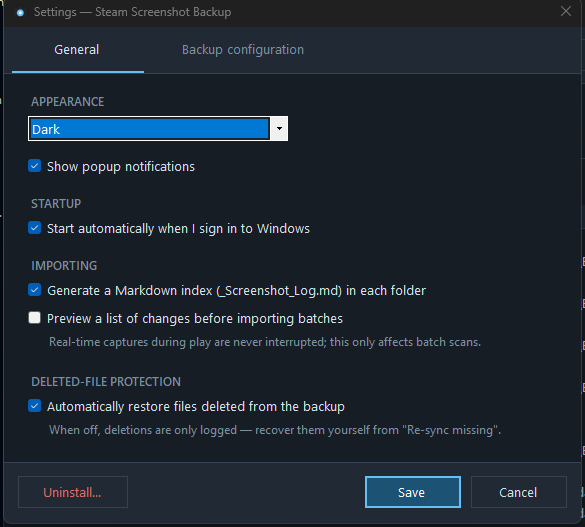
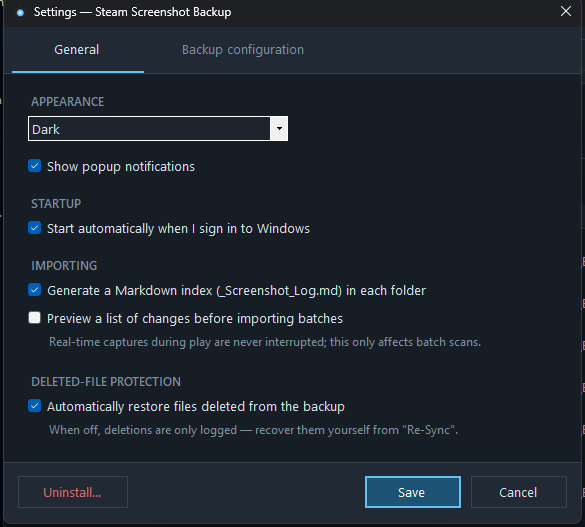
Fix stale label text, settings focus, publisher metadata, screenshot colors
- SettingsWindow: auto-restore hint referenced the old "Re-sync missing"
  label; updated to "Re-Sync". Also fixed the Appearance dropdown opening
  pre-selected/highlighted - the window now starts with neutral focus.
- GameNamesWindow: title capitalization now matches the "Game Names" button.
- installer/setup.iss: AppPublisher now shows "Erdmann5150" in Windows
  Apps & Features instead of a generic project name.
- README: noted that the installer can be run directly over an existing
  install (no uninstall needed) to upgrade.
- docs/img: stripped a redundant gAMA chunk from all screenshots. The
  PNGs (from GDI+ screen capture) had both an sRGB and a gAMA chunk, a
  combination several desktop browsers mishandle (double gamma
  correction), causing colors to look correct locally/on mobile but
  washed out on GitHub in a desktop browser. Pixel data is unchanged.

diff --git a/app/SettingsWindow.cs b/app/SettingsWindow.cs
@@ -179,7 +179,7 @@ namespace SteamScreenshotBackup
             Check(_autoRestore, "Automatically restore files deleted from the backup",
                 _settings.AutoRestore, Theme.Text);
             y += 26;
-            Hint("When off, deletions are only logged \u2014 recover them yourself from \"Re-sync missing\".");
+            Hint("When off, deletions are only logged \u2014 recover them yourself from \"Re-Sync\".");
             y += 28;
             int generalBottom = y;
 
@@ -284,7 +284,12 @@ namespace SteamScreenshotBackup
             _tabGeneral.Click += (s, e) => SelectTab(0);
             _tabBackup.Click += (s, e) => SelectTab(1);
 
+            // Invisible, non-visual control that soaks up the window's initial focus so
+            // nothing (e.g. the Appearance dropdown) opens looking pre-selected.
+            var focusCatcher = new Panel { TabStop = true, Size = new Size(0, 0), TabIndex = 0 };
+
             // ----- assemble (Fill first, then outer bars) -----
+            Controls.Add(focusCatcher);
             Controls.Add(contentHost);
             Controls.Add(footerEdge);
             Controls.Add(footer);
@@ -299,6 +304,7 @@ namespace SteamScreenshotBackup
             ClientSize = new Size(577, 46 + 1 + content + 1 + 60);
 
             SelectTab(0);
+            ActiveControl = focusCatcher;
         }
 
         private Button MakeTab(string text, int x, int width)

diff --git a/app/GameNamesWindow.cs b/app/GameNamesWindow.cs
@@ -19,7 +19,7 @@ namespace SteamScreenshotBackup
         {
             _resolver = resolver;
 
-            Text = "Game names \u2014 Steam Screenshot Backup";
+            Text = "Game Names \u2014 Steam Screenshot Backup";
             StartPosition = FormStartPosition.CenterParent;
             Size = new Size(560, 480);
             MinimumSize = new Size(460, 320);

diff --git a/README.md b/README.md
@@ -124,6 +124,11 @@ Steam Screenshots/
 3. On first launch, choose your backup folder and which screenshot types to back
    up. That's the entire setup.
 
+**Updating to a new version?** Just download the latest installer and run it —
+no need to uninstall first. It installs directly over your existing copy in
+place and keeps your settings, game-name cache, and backed-up screenshots
+untouched.
+
 Uninstall any time from **Windows Settings → Apps** (or Control Panel →
 Programs). The uninstaller removes the app, its settings, cache, and autostart
 entry — your backed-up screenshots are never touched. The same uninstaller is
